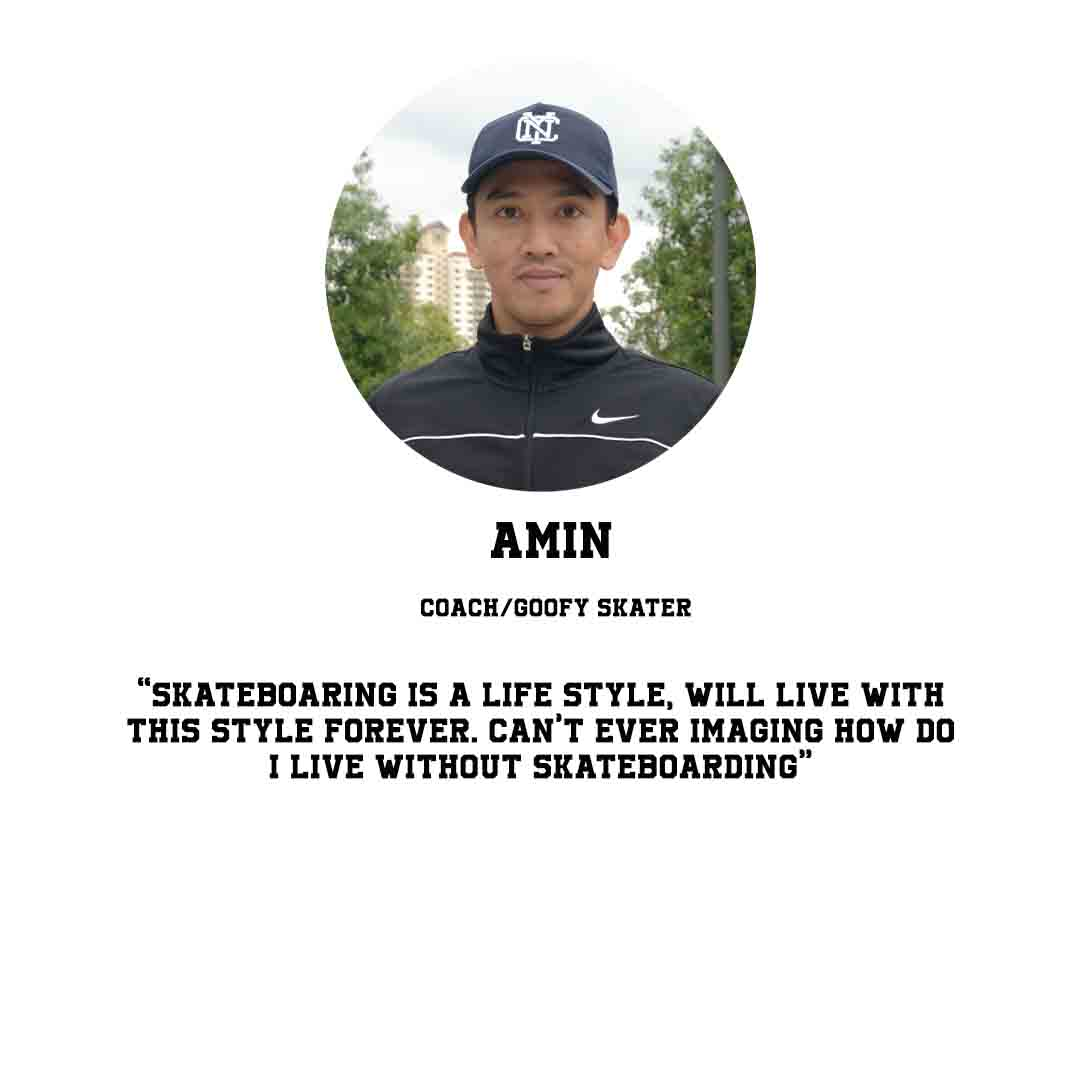
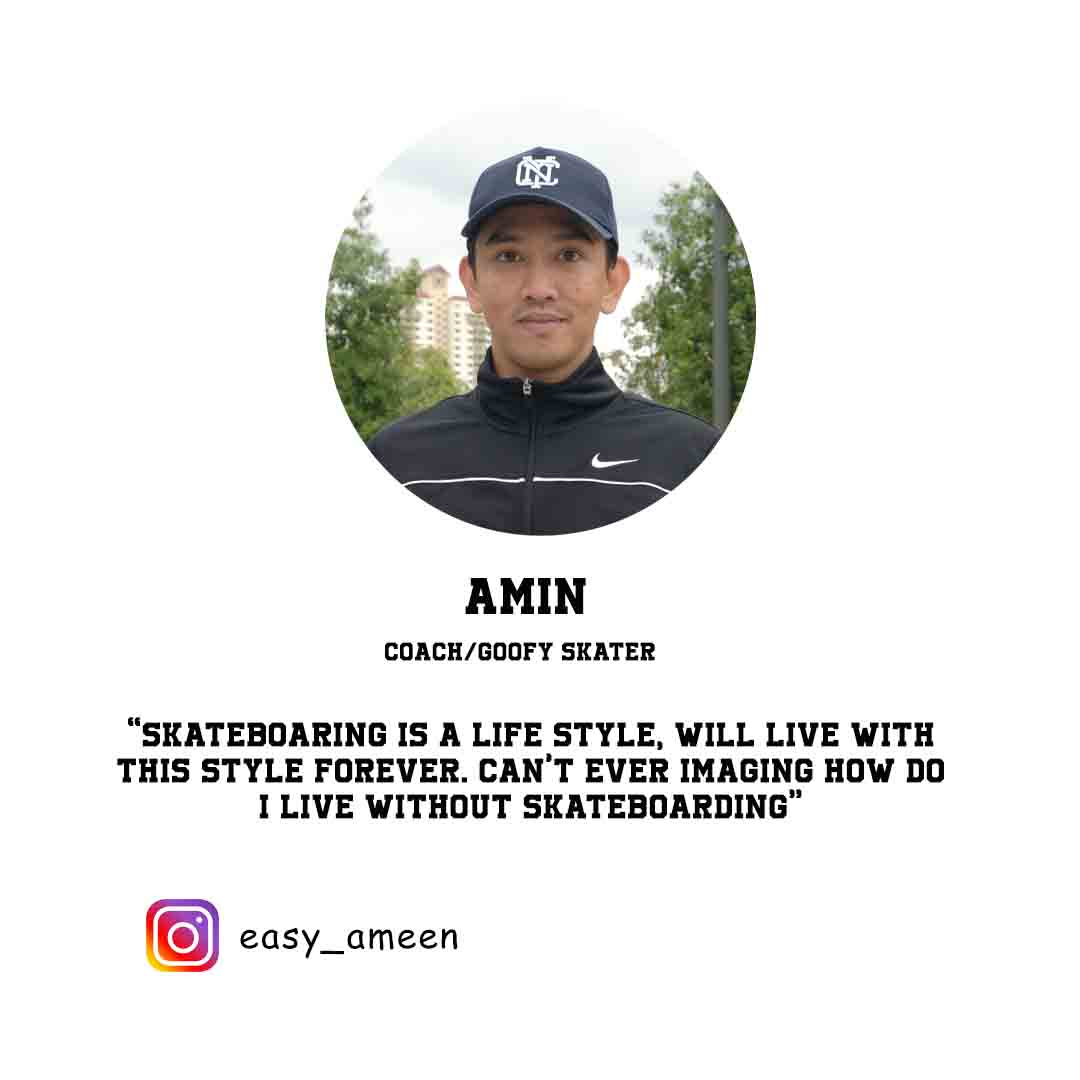
siapprofile

Changed region(s): [[0.0917, 0.0917, 0.8861, 0.7639], [0.1222, 0.825, 0.4278, 0.9167]]

diff --git a/aboutUs.html b/aboutUs.html
@@ -39,6 +39,7 @@
       width: 50%;
       top: 72px;
   }
+  
     </style>
 </head>
 <body>
@@ -97,30 +98,19 @@
     <div>
       <h1 class="display-4 center">Getting Know Our Coach</h1>
       <br><br>
-      <img src="img/AMIN PROFILE TEST.jpg" alt="" class="headerpic1">
-      <img src="img/AMIN PROFILE TEST.jpg" alt="" class="headerpic1">
+      
+      <a href="https://www.instagram.com/easy_ameen/"><img src="img/AMIN PROFILE TEST.jpg" alt="" class="headerpic1"></a>
+      
+      
+      <a href="https://www.instagram.com/lofoy_/"><img src="img/luqman profile.jpg" alt="" class="headerpic1"></a>
+     
         </div>
        </div>
     </div>
   </section>
   <footer>
-    <div class="jumbotron">
-      <h1 class="display-4 text-center">Book Now!!</h1>
-      <p class="lead text-center">Get free trail for 2 Week</p>
-      <hr class="my-4">
-      <a class="btn btn-primary btn-lg center" href="course.html" role="button">Book Now</a>
-    </div>
-    <div>
-      <div class="jumbotron jumbotron-fluid center2">
-        <div class="container">
-          <h1 style="font-size: 15px;">Easy Skate school | copyright 2020</h1>
-        </div>
-      </div>
-    <footer>
-      <div>
-        <h1 style="font-size: 15px;">Easy Skate school | copyright 2020</h1>
-      </div>
-    </footer>
+   
+ </footer>
     
     
     <script src="https://code.jquery.com/jquery-3.5.1.slim.min.js" 
